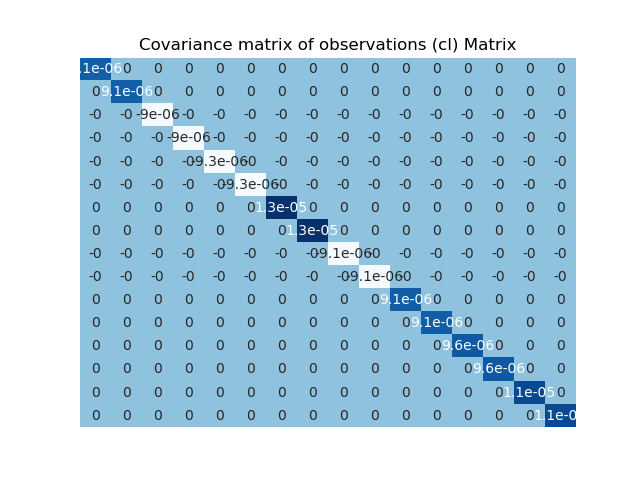
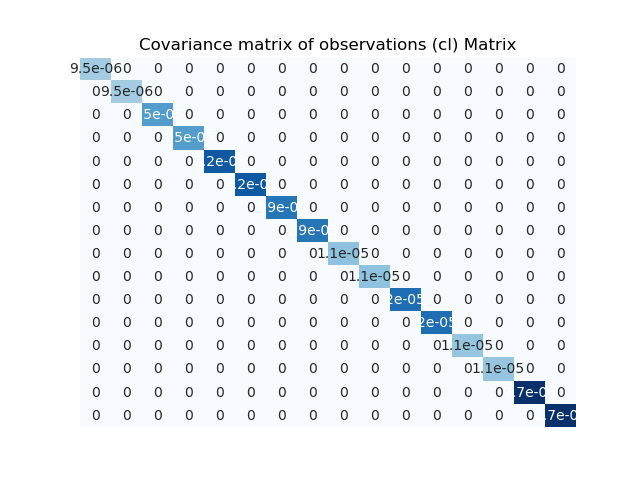
fix: rad/deg error

diff --git a/Computations.py b/Computations.py
@@ -135,22 +135,22 @@ G24toG12_noise = G24toG12_before - G24toG12_after
 G24toG10_noise = G24toG10_before - G24toG10_after
 
 
-G24_base_var = Variance(sat_coords=G24, receiver_coords=pillar_1A_base, range_obs=G24_base_obs, L1=True)
-G24_rover_var = Variance(sat_coords=G24, receiver_coords=pillar_3A_rover,range_obs=G24_rover_obs, L1=True)
-G19_base_var = Variance(sat_coords=G19, receiver_coords=pillar_1A_base, range_obs=G19_base_obs, L1=True)
-G19_rover_var = Variance(sat_coords=G19, receiver_coords=pillar_3A_rover,range_obs=G19_rover_obs, L1=True)
-G18_base_var = Variance(sat_coords=G18, receiver_coords=pillar_1A_base, range_obs=G18_base_obs, L1=True)
-G18_rover_var = Variance(sat_coords=G18, receiver_coords=pillar_3A_rover,range_obs=G18_rover_obs, L1=True)
-G17_base_var = Variance(sat_coords=G17, receiver_coords=pillar_1A_base, range_obs=G17_base_obs, L1=True)
-G17_rover_var = Variance(sat_coords=G17, receiver_coords=pillar_3A_rover,range_obs=G17_rover_obs, L1=True)
-G15_base_var = Variance(sat_coords=G15, receiver_coords=pillar_1A_base, range_obs=G15_base_obs, L1=True)
-G15_rover_var = Variance(sat_coords=G15, receiver_coords=pillar_3A_rover,range_obs=G15_rover_obs, L1=True)
-G13_base_var = Variance(sat_coords=G13, receiver_coords=pillar_1A_base, range_obs=G13_base_obs, L1=True)
-G13_rover_var = Variance(sat_coords=G13, receiver_coords=pillar_3A_rover,range_obs=G13_rover_obs, L1=True)
-G12_base_var = Variance(sat_coords=G12, receiver_coords=pillar_1A_base, range_obs=G12_base_obs, L1=True)
-G12_rover_var = Variance(sat_coords=G12, receiver_coords=pillar_3A_rover,range_obs=G12_rover_obs, L1=True)
-G10_base_var = Variance(sat_coords=G10, receiver_coords=pillar_1A_base, range_obs=G10_base_obs, L1=True)
-G10_rover_var = Variance(sat_coords=G10, receiver_coords=pillar_3A_rover,range_obs=G10_rover_obs, L1=True)
+G24_base_var = Variance(sat_coords=G24, receiver_coords=pillar_1A_base, L1=True)
+G24_rover_var = Variance(sat_coords=G24, receiver_coords=pillar_3A_rover, L1=True)
+G19_base_var = Variance(sat_coords=G19, receiver_coords=pillar_1A_base, L1=True)
+G19_rover_var = Variance(sat_coords=G19, receiver_coords=pillar_3A_rover, L1=True)
+G18_base_var = Variance(sat_coords=G18, receiver_coords=pillar_1A_base, L1=True)
+G18_rover_var = Variance(sat_coords=G18, receiver_coords=pillar_3A_rover, L1=True)
+G17_base_var = Variance(sat_coords=G17, receiver_coords=pillar_1A_base, L1=True)
+G17_rover_var = Variance(sat_coords=G17, receiver_coords=pillar_3A_rover,  L1=True)
+G15_base_var = Variance(sat_coords=G15, receiver_coords=pillar_1A_base,  L1=True)
+G15_rover_var = Variance(sat_coords=G15, receiver_coords=pillar_3A_rover, L1=True)
+G13_base_var = Variance(sat_coords=G13, receiver_coords=pillar_1A_base,  L1=True)
+G13_rover_var = Variance(sat_coords=G13, receiver_coords=pillar_3A_rover, L1=True)
+G12_base_var = Variance(sat_coords=G12, receiver_coords=pillar_1A_base,  L1=True)
+G12_rover_var = Variance(sat_coords=G12, receiver_coords=pillar_3A_rover, L1=True)
+G10_base_var = Variance(sat_coords=G10, receiver_coords=pillar_1A_base, L1=True)
+G10_rover_var = Variance(sat_coords=G10, receiver_coords=pillar_3A_rover, L1=True)
 
 variance_vector = np.array([ [G24_base_var .elevation_variance_calculator()],
                              [G24_rover_var.elevation_variance_calculator()],

diff --git a/Matrix_Computation_Classes.py b/Matrix_Computation_Classes.py
@@ -2,7 +2,8 @@ from math import sqrt
 from numpy import transpose, linalg
 import matplotlib.pyplot as plt
 import seaborn as sns
-from math import sqrt, cos, sin, degrees, acos
+from math import sqrt, cos, sin, degrees, acos, radians
+from typing import List, Tuple
 
 """
 Class DD
@@ -24,8 +25,8 @@ f = signal frequency (L1: 1575.42MHz, L2: 1227.6MHz)  either L1 or L2 can be Tru
 """
 
 class DD:
-    def __init__(self, ref_station: list =None,
-                       corresponding_sat: list =None,
+    def __init__(self, ref_station =None,
+                       corresponding_sat =None,
                        sat_ref= None,
                        N: int = None,
                        e: float = None,
@@ -109,20 +110,19 @@ class DD:
 
 class Variance:
 
-    def __init__(self, sat_coords: list,
-                       receiver_coords: list,
-                       range_obs: list,
+    def __init__(self, sat_coords: List[float],
+                       receiver_coords: List[float],
                        L1: bool == True):
-
-
 
         if L1:
             l1_std = 0.003
 
+        assert len(sat_coords) == len(receiver_coords)
+
+
         self.l1_std = l1_std
         self.sat_coords = sat_coords
         self.receiver_coords = receiver_coords
-        self.range_obs = range_obs
 
     def elevation_variance_calculator(self) -> float:
 
@@ -153,9 +153,10 @@ class Variance:
 
         # Angle from the local horizontal to the satellite (m)
         angle = (degrees(acos((ec_r ** 2 + r_s ** 2 - ec_s ** 2) / (2 * ec_r * r_s)))) - 90
+        angle = radians(angle)
 
         # Variance (uncertainty associated with the satellite) (m)
-        variance = (self.l1_std ** 2) / sin(angle)
+        variance = (self.l1_std ** 2) / (sin(angle))
 
         return variance
 
